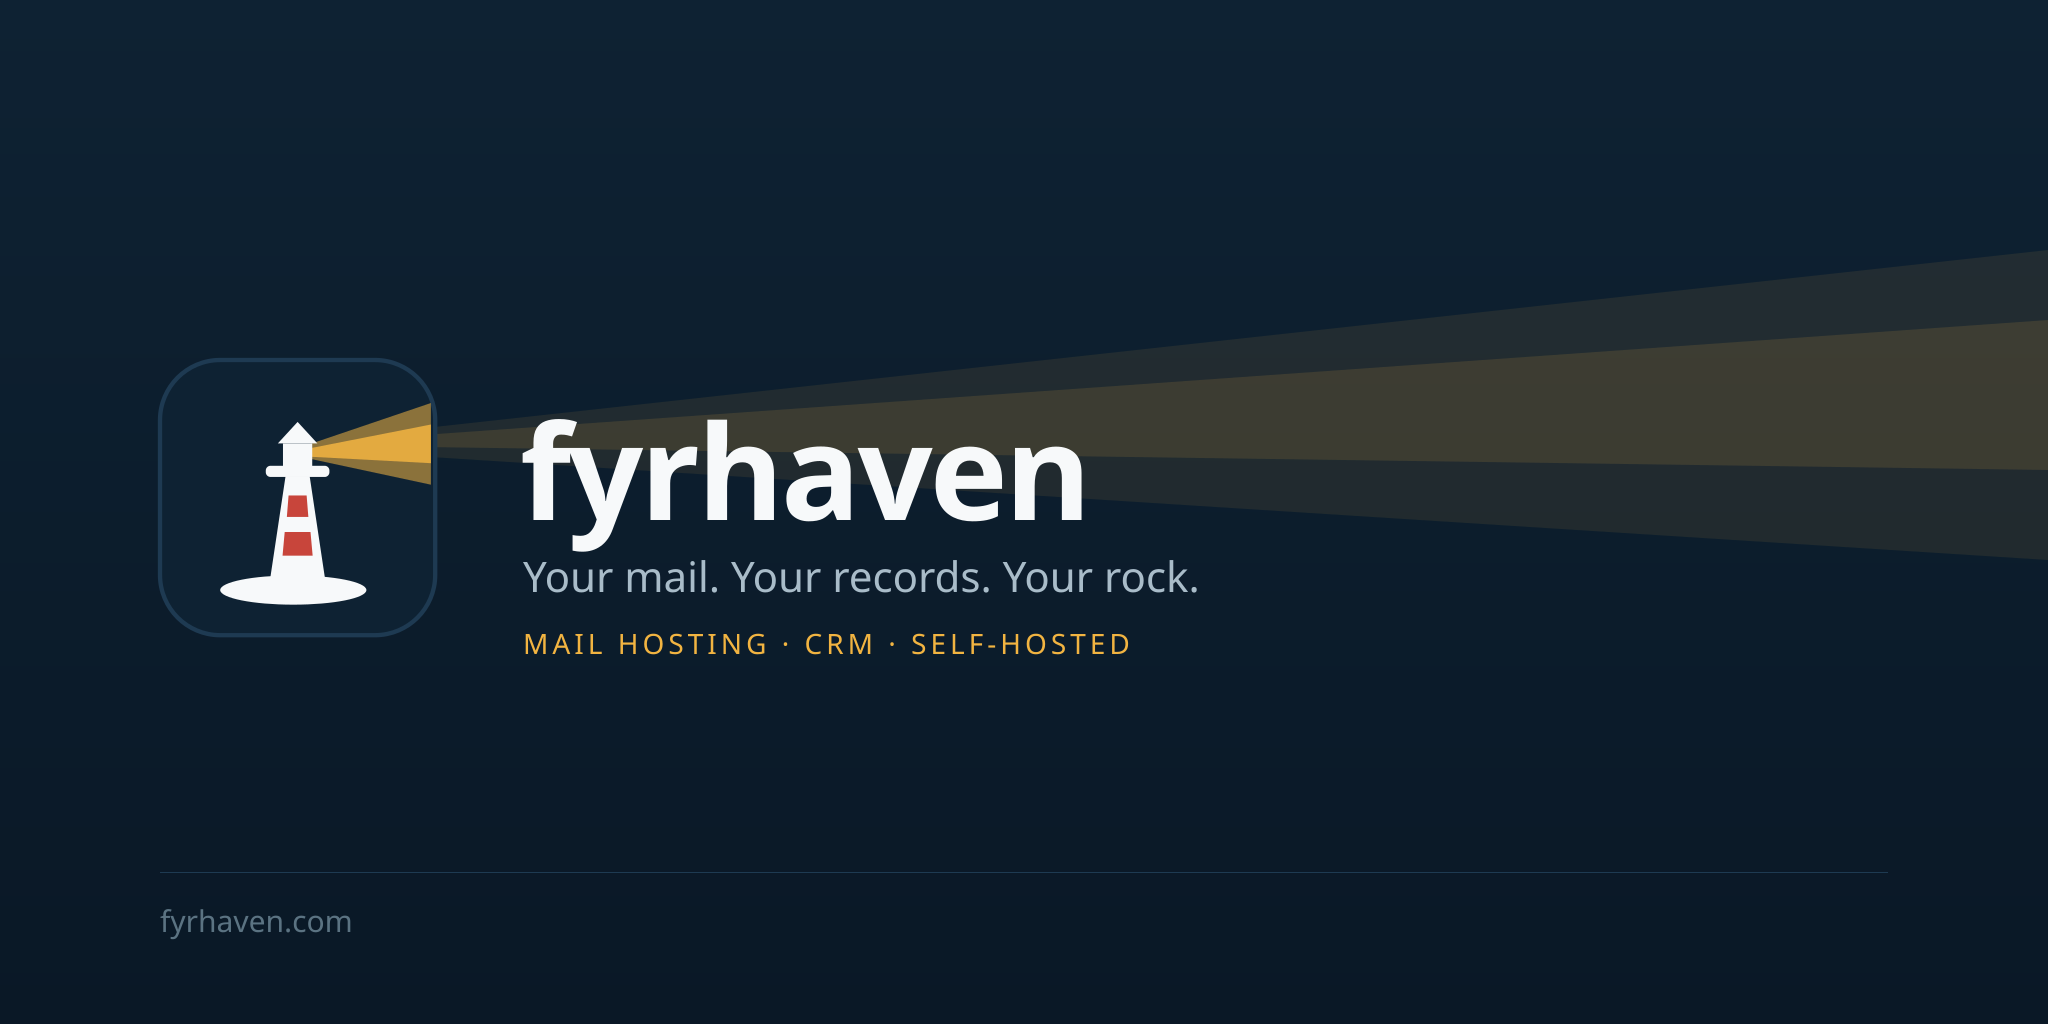
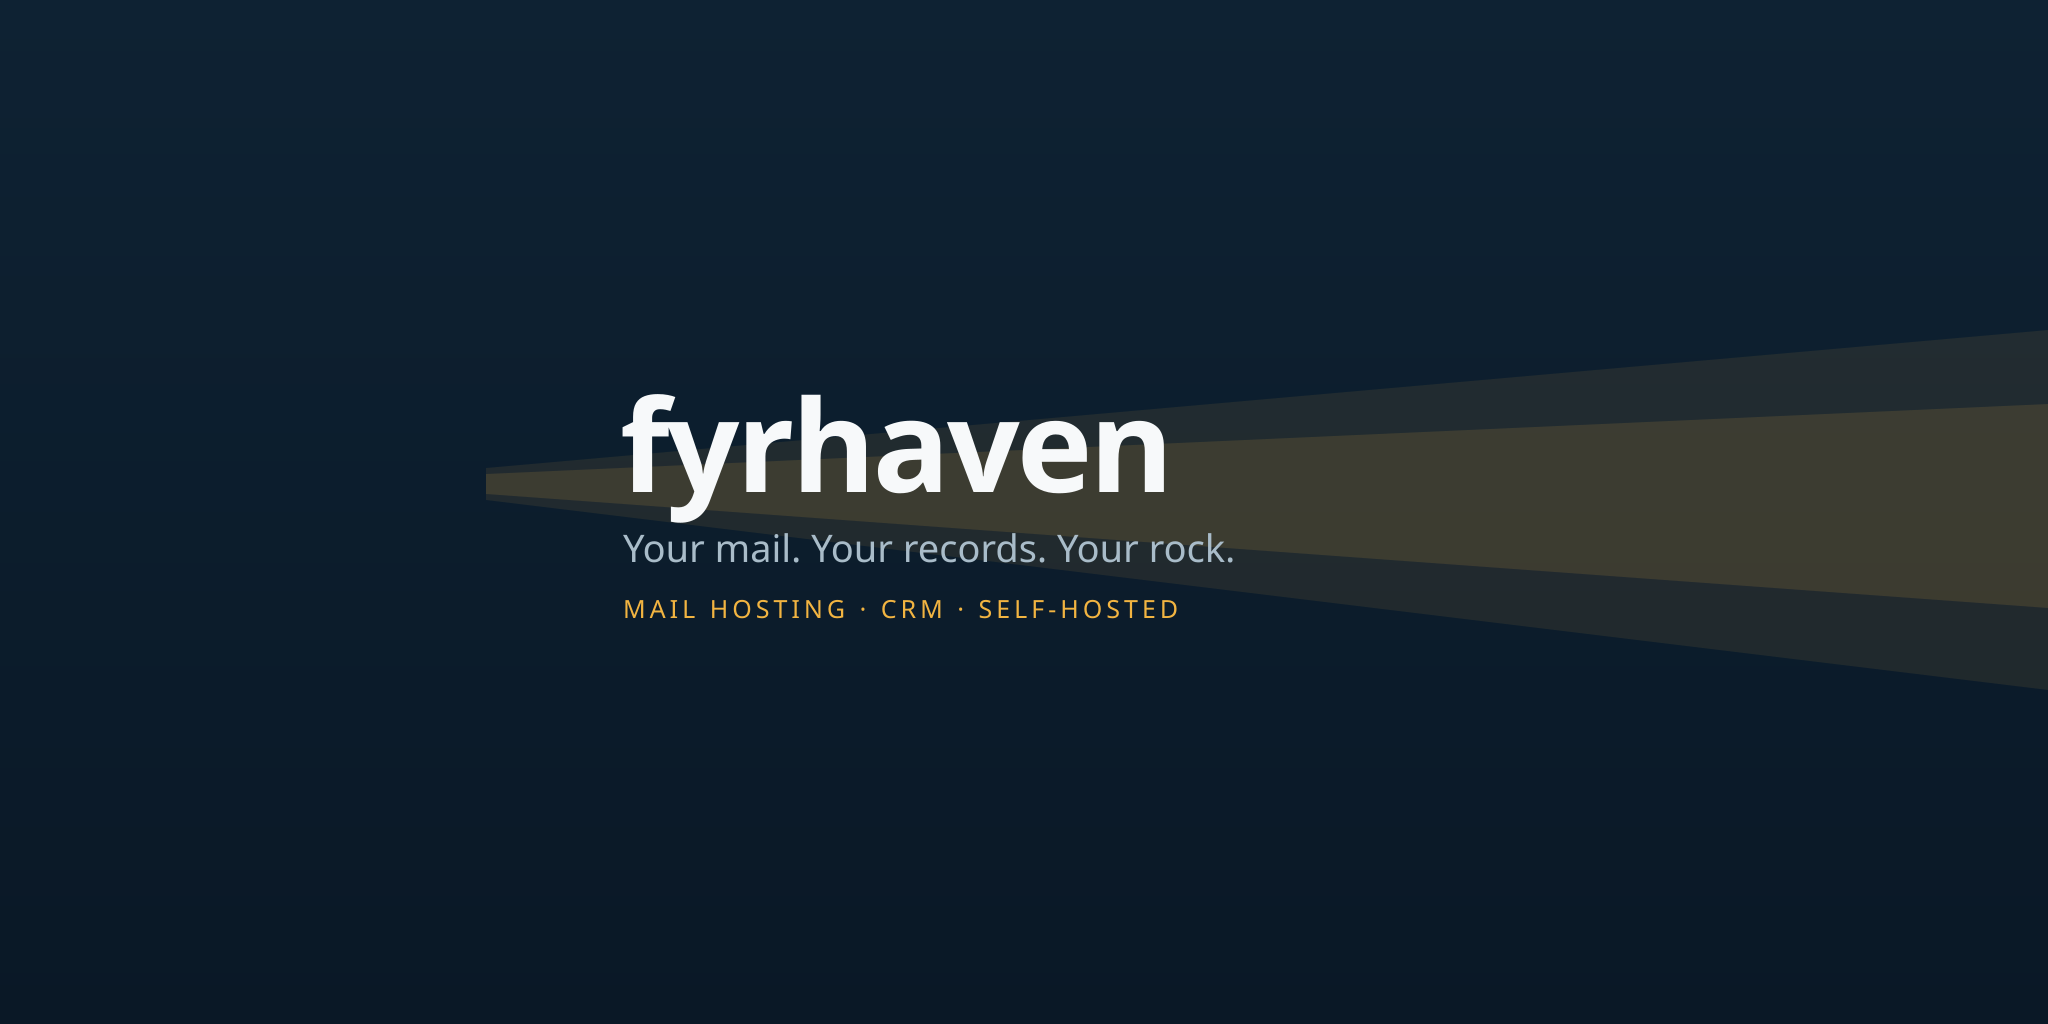
brand: the profile header is the beam, not a second lighthouse
The first header had the mark drawn into it, and on a real Gravatar profile that
is wrong twice over: the profile picture sits on top of that corner, so there were
two lighthouses with one behind the other, and Gravatar shows the cover as a wide
band rather than at 2:1, so the lower third was cropped away.

So the artwork has no mark in it at all — the avatar *is* the mark — and the beam
starts at the avatar's right edge and runs off the canvas. That is what makes the
profile picture and the cover read as one picture: the light comes out of the
lighthouse that is already there.

Everything that must survive is now between y=380 and y=740 of the 1024 and right
of x=560: outside the avatar, inside the band. `fyrhaven-header-wide.png` is that
band (2048x512), cut from the upload so what you approve is what appears.

Verified the way it failed the first time — by compositing the round avatar over
the cover at Gravatar's proportions and looking at the result, not by looking at
the cover on its own. Also nudge-checked that the avatar's own beam and the
cover's beam meet at the circle's edge.

Changed region(s): [[0.0938, 0.3125, 1.0, 0.6562], [0.0938, 0.3438, 0.1875, 0.375], [0.0938, 0.875, 0.1562, 0.9062]]

diff --git a/brand/README.md b/brand/README.md
@@ -10,7 +10,7 @@ The mark is a lighthouse on its rock, with the beam that makes it readable at
 | `fyrhaven-lockup.svg` | horizontal logo — this is where the **red/white stripes** live, because there is room for them |
 | `fyrhaven-lockup-dark.svg` | the same lockup with the wordmark in Paper, for a dark page (GitHub's dark theme, the store's footer) |
 | `fyrhaven-banner.svg` | 1200×630 Open Graph / social card |
-| `fyrhaven-header.svg` | 2048×1024 profile header: a Gravatar profile cover, and any other 2:1 slot |
+| `fyrhaven-header.svg` | profile header: 2048×1024 for uploading, shown by Gravatar as a 4:1 band. **No mark in it** — the profile picture is the mark, and the beam leaves the avatar |
 | `*.png` | rendered copies of the SVGs above, because some places take no SVG: GitHub's social preview, Gravatars, avatars, slide decks |
 
 Live copies sit in `fyrhaven-server/site/` (`favicon.svg`, `banner.svg`) and
@@ -26,11 +26,17 @@ are served by the store itself.
   click, not a step in `npm run release`.
 * **Org avatar / favicon** — `fyrhaven-mark.png` (512×512) or the SVG where SVG
   is accepted.
-* **Profile headers** — `fyrhaven-header.png` (2048×1024, 2:1) for Gravatar and
-  anything else shaped like a cover; `fyrhaven-header-wide.png` (1500×500) is the
-  centre crop of the same artwork for a 3:1 slot. Everything that must survive a
-  crop sits between y=300 and y=700 of the 1024, so the wide crop keeps the mark,
-  the wordmark and the line and drops only the rule and the domain.
+* **Profile headers** — `fyrhaven-header.png` (2048×1024) is what you upload;
+  `fyrhaven-header-wide.png` (2048×512) is the band Gravatar actually shows, cut
+  from it, so what you approve is what appears.
+
+  Two rules came out of putting the first version on a real profile: **do not
+  draw the mark in the cover**, because the profile picture is the mark and it
+  sits on top of that corner; and **keep the text clear of the left ~27%**, which
+  the avatar covers. The beam runs from the avatar's right edge to the edge of the
+  canvas, which is what makes the two read as one picture rather than a logo in
+  front of a poster. Everything that must survive a crop sits between y=380 and
+  y=740 of the 1024 and right of x=560.
 * **Printing one ink** — `fyrhaven-mark-mono.svg`, never a file with a field.
 
 ## Palette
@@ -68,9 +74,9 @@ npx --yes sharp-cli -i fyrhaven-lockup.svg      -o fyrhaven-lockup.png      resi
 npx --yes sharp-cli -i fyrhaven-lockup-dark.svg -o fyrhaven-lockup-dark.png resize 1260 288
 npx --yes sharp-cli -i fyrhaven-mark.svg        -o fyrhaven-mark.png        resize 512 512
 
-# the wide cover is the centre crop of the 2:1 header, so the two cannot disagree
-npx --yes sharp-cli -i fyrhaven-header.png      -o fyrhaven-header-wide.png resize 1500 750
-npx --yes sharp-cli -i fyrhaven-header-wide.png -o fyrhaven-header-wide.png extract 125 0 1500 500
+# the band Gravatar shows, cut from the upload so the two cannot disagree
+# (extract is top, left, width, height: not the other way round)
+npx --yes sharp-cli -i fyrhaven-header.png      -o fyrhaven-header-wide.png extract 256 0 2048 512
 ```
 
 Re-render after any change to the palette or the wordmark: a stale PNG is the one

diff --git a/brand/social.md b/brand/social.md
@@ -102,8 +102,8 @@ product page rather than a company.
 | Place | Size | File |
 |---|---|---|
 | Avatar everywhere | 400×400 px | `fyrhaven-mark.svg` → PNG (the mark reads at 16 px, so 400 is generous) |
-| Gravatar / profile header | 2048×1024 (2:1) | `fyrhaven-header.png` — check the crop in Gravatar's own editor, since their page pads it |
-| X header | 1500×500 | `fyrhaven-header-wide.png` — the centre crop of the same header, so the two never disagree |
+| Gravatar / profile header | upload 2048×1024, shown as a 4:1 band | `fyrhaven-header.png` — no mark in it: the avatar *is* the mark, and the beam leaves the avatar. `fyrhaven-header-wide.png` is that band |
+| X header | 1500×500 (3:1) | `fyrhaven-header-wide.png` (2048×512) — X crops it to 3:1, which keeps the wordmark and the line |
 | YouTube banner | 2560×1440 (safe area 1546×423) | banner, mark inside the safe area |
 | Instagram / TikTok | 1080×1920 story | mark on ink, headline in the lower third |
 | OG card | 1200×630 | `fyrhaven-banner.svg` (already served at `/banner.svg`) |
